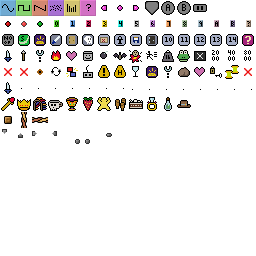
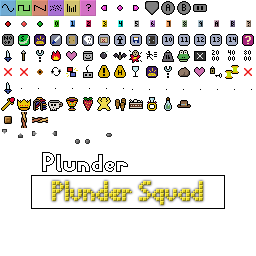
Nicer title graphics on assemblepage

Changed region(s): [[0.125, 0.5938, 0.875, 0.8438], [0.875, 0.6875, 0.9062, 0.8125], [0.0938, 0.6875, 0.125, 0.8125]]

diff --git a/src/gui/menus/ps_widget_introtitle.c b/src/gui/menus/ps_widget_introtitle.c
@@ -1,0 +1,100 @@
+/* ps_widget_introtitle.c
+ * Displays the main banner title on assemblepage.
+ */
+
+#include "ps.h"
+#include "../ps_widget.h"
+#include "ps_menus.h"
+#include "video/ps_video.h"
+#include "akgl/akgl.h"
+
+/* You can modify the tile IDs here and the vertex allocation will adapt.
+ */
+#define PS_INTROTITLE_TSID    0x01
+#define PS_INTROTITLE_TILE_NW 0xb3
+#define PS_INTROTITLE_TILE_SE 0xcc
+
+/* Don't touch these unless you've substantially changed the layout.
+ */
+#define PS_INTROTITLE_COLC ((PS_INTROTITLE_TILE_SE&15)-(PS_INTROTITLE_TILE_NW&15)+1)
+#define PS_INTROTITLE_ROWC ((PS_INTROTITLE_TILE_SE>>4)-(PS_INTROTITLE_TILE_NW>>4)+1)
+#define PS_INTROTITLE_VTXC (PS_INTROTITLE_COLC*PS_INTROTITLE_ROWC)
+
+/* Object definition.
+ */
+
+struct ps_widget_introtitle {
+  struct ps_widget hdr;
+  struct akgl_vtx_mintile vtxv[PS_INTROTITLE_VTXC];
+};
+
+#define WIDGET ((struct ps_widget_introtitle*)widget)
+
+/* Draw.
+ */
+
+static void ps_introtitle_offset_vertices(struct ps_widget *widget,int dx,int dy) {
+  struct akgl_vtx_mintile *vtx=WIDGET->vtxv;
+  int i=PS_INTROTITLE_VTXC; for (;i-->0;vtx++) {
+    vtx->x+=dx;
+    vtx->y+=dy;
+  }
+}
+
+static int _ps_introtitle_draw(struct ps_widget *widget,int parentx,int parenty) {
+  ps_introtitle_offset_vertices(widget,widget->x+parentx,widget->y+parenty);
+  int err=ps_video_draw_mintile(WIDGET->vtxv,PS_INTROTITLE_VTXC,PS_INTROTITLE_TSID);
+  ps_introtitle_offset_vertices(widget,-widget->x-parentx,-widget->y-parenty);
+  return 0;
+}
+
+/* Measure.
+ */
+
+static int _ps_introtitle_measure(int *w,int *h,struct ps_widget *widget,int maxw,int maxh) {
+  *w=PS_INTROTITLE_COLC*PS_TILESIZE;
+  *h=PS_INTROTITLE_ROWC*PS_TILESIZE;
+  return 0;
+}
+
+/* Pack.
+ * Initialize vertices with the correct tile ID, and a position assuming widget at (0,0).
+ */
+
+static int _ps_introtitle_pack(struct ps_widget *widget) {
+
+  int imgw=PS_INTROTITLE_COLC*PS_TILESIZE;
+  int imgh=PS_INTROTITLE_ROWC*PS_TILESIZE;
+  int imgx=(widget->w>>1)-(imgw>>1); // very left edge of tiles
+  int imgy=(widget->h>>1)-(imgh>>1); // very top edge of tiles
+  int x0=imgx+(PS_TILESIZE>>1); // center of top-left tile
+  int y0=imgy+(PS_TILESIZE>>1); // "
+
+  int y=y0;
+  struct akgl_vtx_mintile *vtx=WIDGET->vtxv;
+  int row=0; for (;row<PS_INTROTITLE_ROWC;row++,y+=PS_TILESIZE) {
+    int x=x0;
+    uint8_t tileid=PS_INTROTITLE_TILE_NW+(row<<4);
+    int col=0; for (;col<PS_INTROTITLE_COLC;col++,vtx++,x+=PS_TILESIZE,tileid++) {
+      vtx->x=x;
+      vtx->y=y;
+      vtx->tileid=tileid;
+    }
+  }
+  
+  return 0;
+}
+
+/* Type definition.
+ */
+
+const struct ps_widget_type ps_widget_type_introtitle={
+
+  .name="introtitle",
+  .objlen=sizeof(struct ps_widget_introtitle),
+
+  .draw=_ps_introtitle_draw,
+  .measure=_ps_introtitle_measure,
+  .pack=_ps_introtitle_pack,
+
+};

diff --git a/src/gui/menus/ps_widget_assemblepage.c b/src/gui/menus/ps_widget_assemblepage.c
@@ -13,6 +13,7 @@
 #include "gui/ps_gui.h"
 #include "game/ps_game.h"
 #include "input/ps_input_device.h"
+#include "video/ps_video.h"
 
 // Checking the ready state might be a little expensive, so only do it once per 15 frames.
 // That is desirable anyway, since we want a brief oh-shit delay after all players are ready.
@@ -47,10 +48,13 @@ static int _ps_assemblepage_init(struct ps_widget *widget) {
 
   struct ps_widget *child;
 
+  /*
   if (!(child=ps_widget_spawn(widget,&ps_widget_type_label))) return -1; // titlelabel
   if (ps_widget_label_set_text(child,"Plunder Squad",-1)<0) return -1;
   if (ps_widget_label_set_size(child,24)<0) return -1;
   child->fgrgba=0xffffffff;
+  */
+  if (!(child=ps_widget_spawn(widget,&ps_widget_type_introtitle))) return -1;
 
   if (!(child=ps_widget_spawn(widget,&ps_widget_type_heropacker))) return -1; // heropacker
 
@@ -101,6 +105,16 @@ static int _ps_assemblepage_pack(struct ps_widget *widget) {
     struct ps_widget *child=widget->childv[i];
     if (ps_widget_pack(child)<0) return -1;
   }
+  return 0;
+}
+
+/* Draw.
+ */
+
+static int _ps_assemblepage_draw(struct ps_widget *widget,int parentx,int parenty) {
+  if (ps_widget_draw_background(widget,parentx,parenty)<0) return -1;
+  if (ps_video_flush_cached_drawing()<0) return -1;
+  if (ps_widget_draw_children(widget,parentx,parenty)<0) return -1;
   return 0;
 }
 
@@ -167,6 +181,7 @@ const struct ps_widget_type ps_widget_type_assemblepage={
   .init=_ps_assemblepage_init,
 
   .pack=_ps_assemblepage_pack,
+  .draw=_ps_assemblepage_draw,
 
   .update=_ps_assemblepage_update,
   .userinput=_ps_assemblepage_userinput,

diff --git a/src/gui/menus/ps_menus.h b/src/gui/menus/ps_menus.h
@@ -25,6 +25,7 @@ extern const struct ps_widget_type ps_widget_type_inputcfgpacker; /* Principal c
 extern const struct ps_widget_type ps_widget_type_inputcfg; /* Panel in inputcfgpacker, for one device. */
 extern const struct ps_widget_type ps_widget_type_inputstatus; /* Shows current values from device. */
 extern const struct ps_widget_type ps_widget_type_awards; /* Shows each player and his award. */
+extern const struct ps_widget_type ps_widget_type_introtitle; /* Displays the words "Plunder Squad" nice and fancy. */
 
 /* Assemblepage.
  *****************************************************************************/

diff --git a/src/gui/menus/ps_widget_heropacker.c b/src/gui/menus/ps_widget_heropacker.c
@@ -76,7 +76,6 @@ static int ps_heropacker_obj_validate(const struct ps_widget *widget) {
 
 static int _ps_heropacker_draw(struct ps_widget *widget,int parentx,int parenty) {
   if (widget->childc>0) {
-    if (ps_video_flush_cached_drawing()<0) return -1;
     if (ps_widget_draw_children(widget,parentx,parenty)<0) return -1;
   } else {
 
